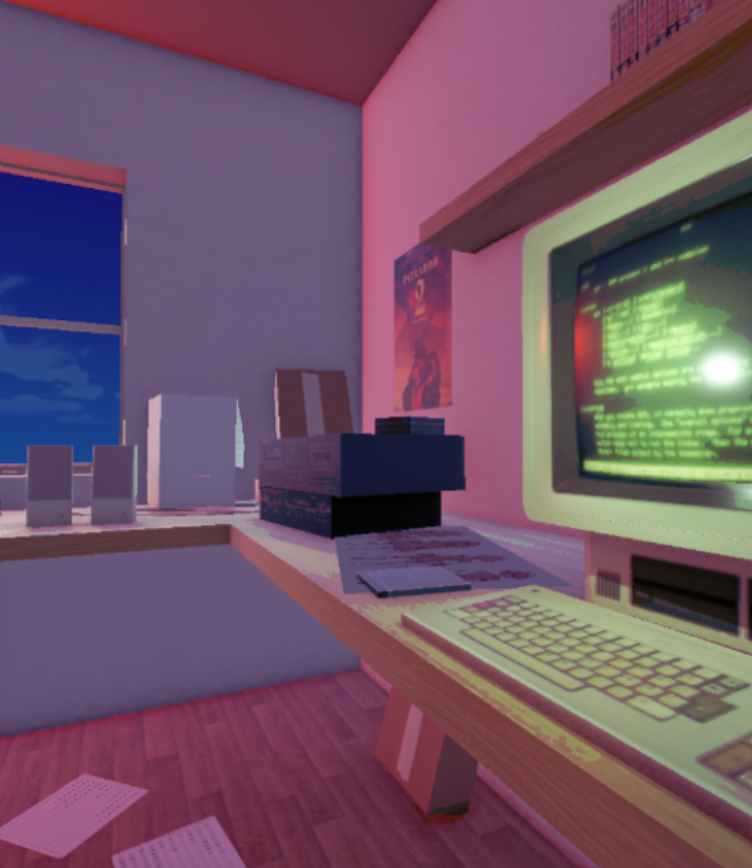
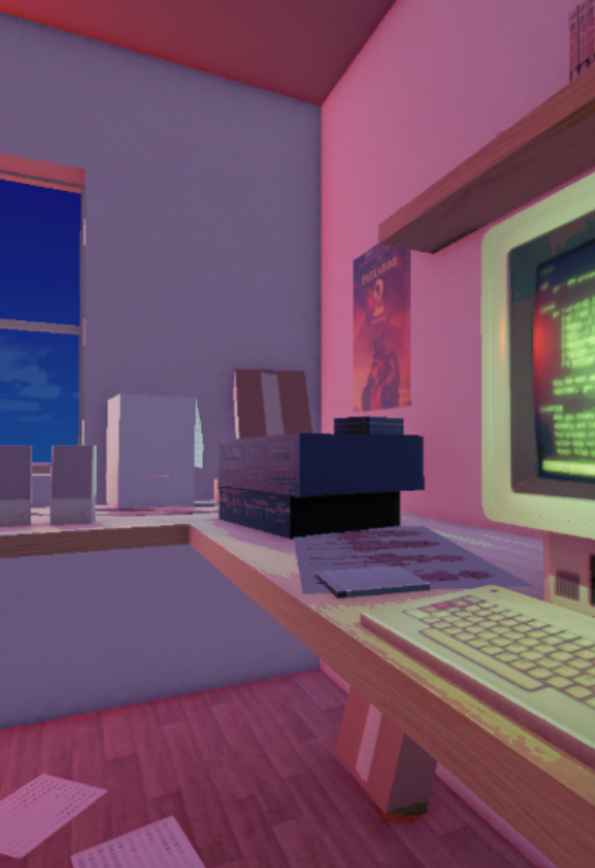
Push

diff --git a/GameDesign.html b/GameDesign.html
@@ -4,7 +4,7 @@
     <meta charset="UTF-8">
     <meta name="viewport" content="width=device-width, initial-scale=1.0">
     <!-- Stylesheet CSS links -->
-    <link rel="stylesheet" href = "style.css">
+    <link rel="stylesheet" href = "stylealt.css">
     <link rel="stylesheet" href = "stylefont.css">
     <!-- Tab Image and Title -->
     <link rel="icon" type = "image/png" href="images/logo2.png">
@@ -77,6 +77,14 @@
             <a href = "https://ilprimarii.itch.io/escapism-simulator">
             <div class="dark whitetext textbox">
                 <h16>Escapism Simulation</h16>
+            </div>
+            </a>
+        </div>
+        <div class="Main7 Layer box">
+            <a href = "https://ilprimarii.itch.io">
+            <div class="sideways-text">
+             <div class="whitetext">
+            <h16> More Games</h16></div>
             </div>
             </a>
         </div>

diff --git a/stylealt.css b/stylealt.css
@@ -176,6 +176,7 @@ body {
 .grid-template-area-side .Main6 {
   grid-area: content3;
   background-image: url(images/CoverContent7.png);
+  background-size: cover;
 }
 .grid-template-area-side .Main7 {
   grid-area: content4;
